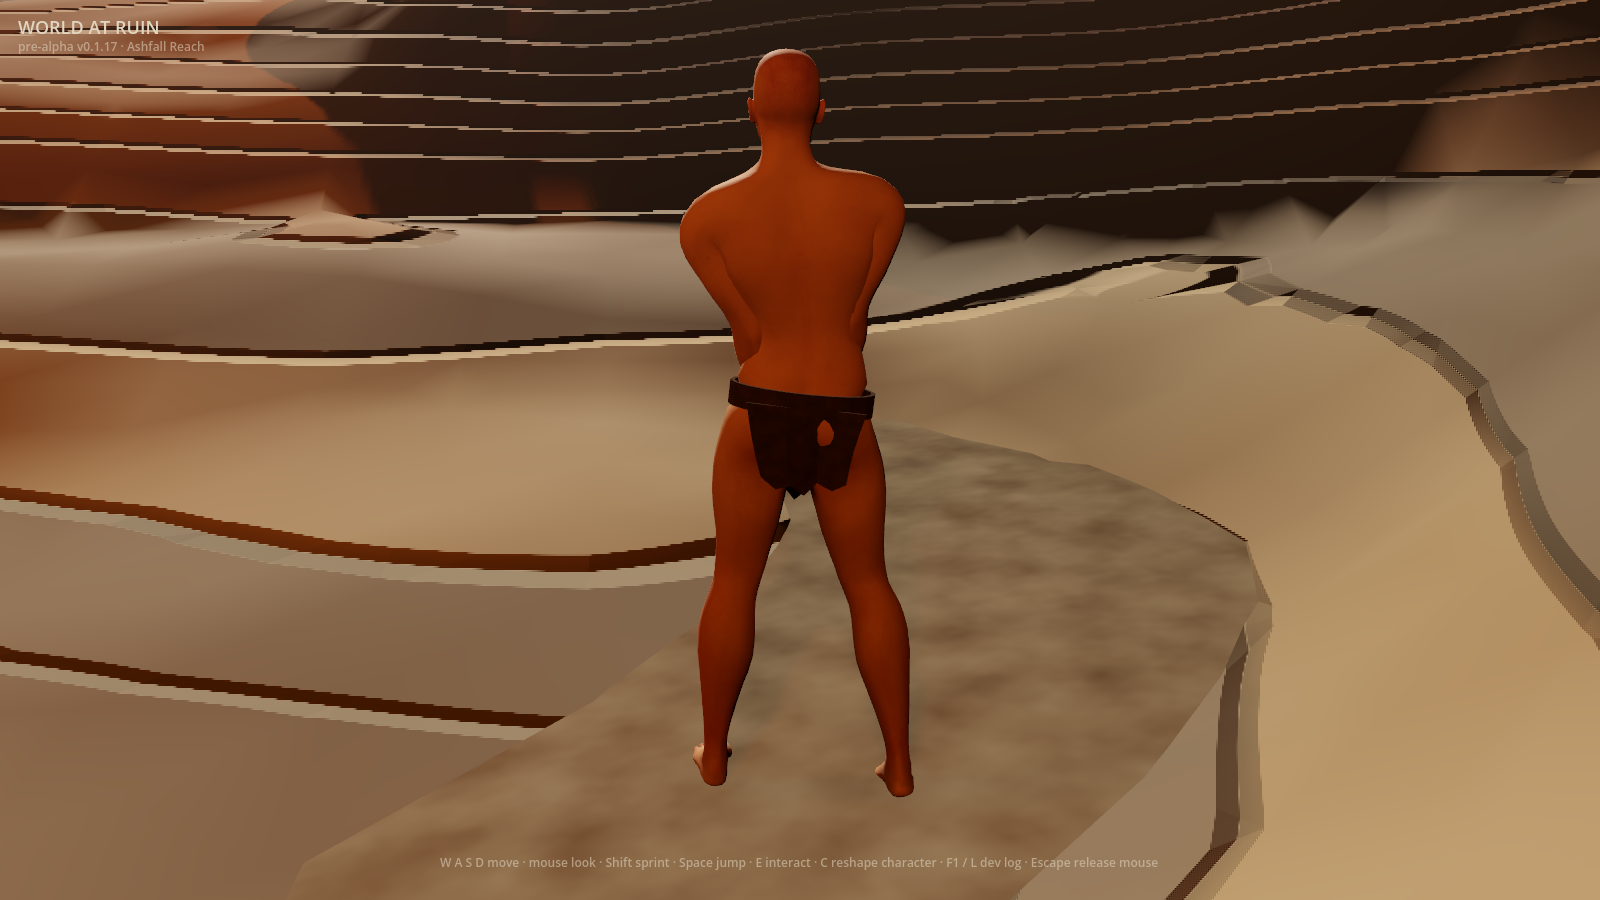
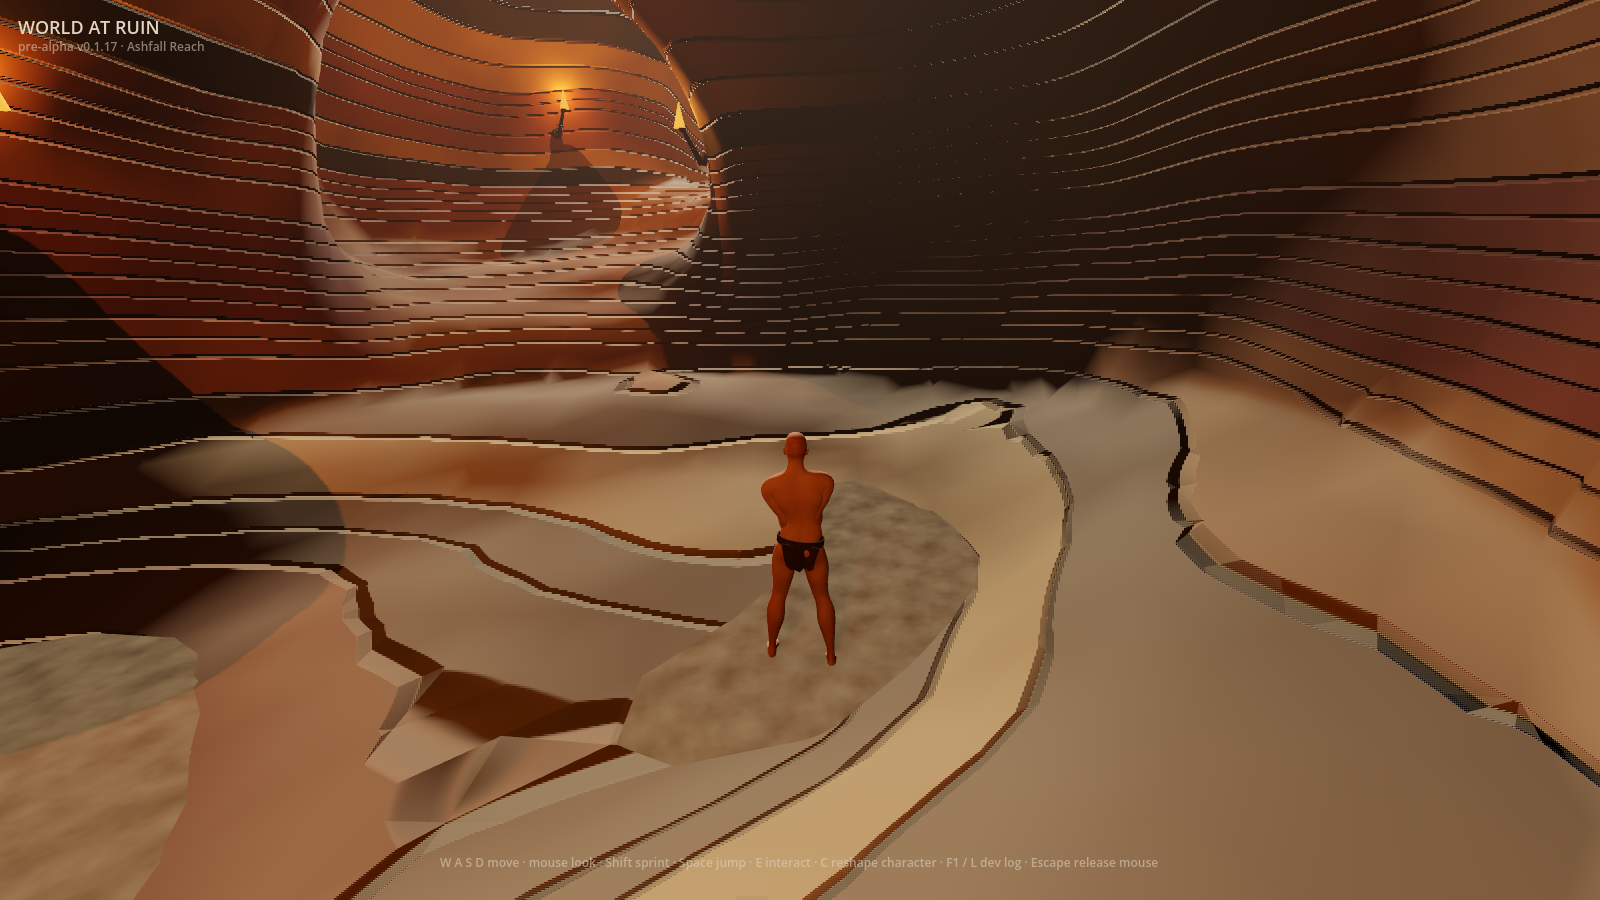
fix(client): inspect cloth through the real gameplay camera

diff --git a/docs/evidence/issue-946-ragged-cloth/README.md b/docs/evidence/issue-946-ragged-cloth/README.md
@@ -14,10 +14,13 @@ garment mask.
 
 ## Actual frames
 
-Godot 4.7.1, Apple M2 Pro, Metal Forward+, 1600×900, native source client,
-2026-10-01. The real first-run creator selected Wanderer and emptied the wardrobe
+Godot 4.7.1, Apple M2 Pro, Metal Forward+, 1600×900, 2026-10-01. Ordinary
+frames use the native source client; opted-in frames use the rebuilt native
+macOS export. The real first-run creator selected Wanderer and emptied the wardrobe
 through its production mutation path. Player/scenery clocks and idle were held
-fixed; only the evidence camera moved. The local GPU supports volumetric fog.
+fixed. Front/rear inspection uses a 36° lens; gameplay selects the player's
+actual 70° follow camera and its unchanged 4.6 m spring arm. The local GPU
+supports volumetric fog.
 
 | Ordinary material | Opted-in preview |
 |---|---|
@@ -36,15 +39,16 @@ under existing cave light. These whole captured frames were not retouched.
 
 Each view renders the actual material twice, a flat-material ablation, and an
 unlit magenta visibility mask. The comparison samples **only pixels the garment
-draws**, avoiding scenery changes. The flat arm preserves opacity/culling and
+draws**, avoiding scenery changes. Close views sample every other pixel;
+minified gameplay samples every garment pixel. The flat arm preserves opacity/culling and
 mean cloth colour, removing albedo, normal and roughness maps. Each close view
 must separate from repeat-frame noise before the scenario reports success.
 
 | Preview view | Sampled garment pixels | Flat-arm mean maximum-channel difference | Repeat-frame noise |
 |---|---:|---:|---:|
 | Front | 34,033 | 0.01746 | 0.00000 |
-| Rear | 41,935 | 0.00831 | 0.00000 |
-| Gameplay | 2,563 | 0.00609 | 0.00000 |
+| Rear | 41,935 | 0.00816 | 0.00000 |
+| Gameplay | 982 | 0.00539 | 0.00001 |
 
 These describe this run on one machine, not an across-machine quality or
 performance score. CI captures both flag states with the same controls and
